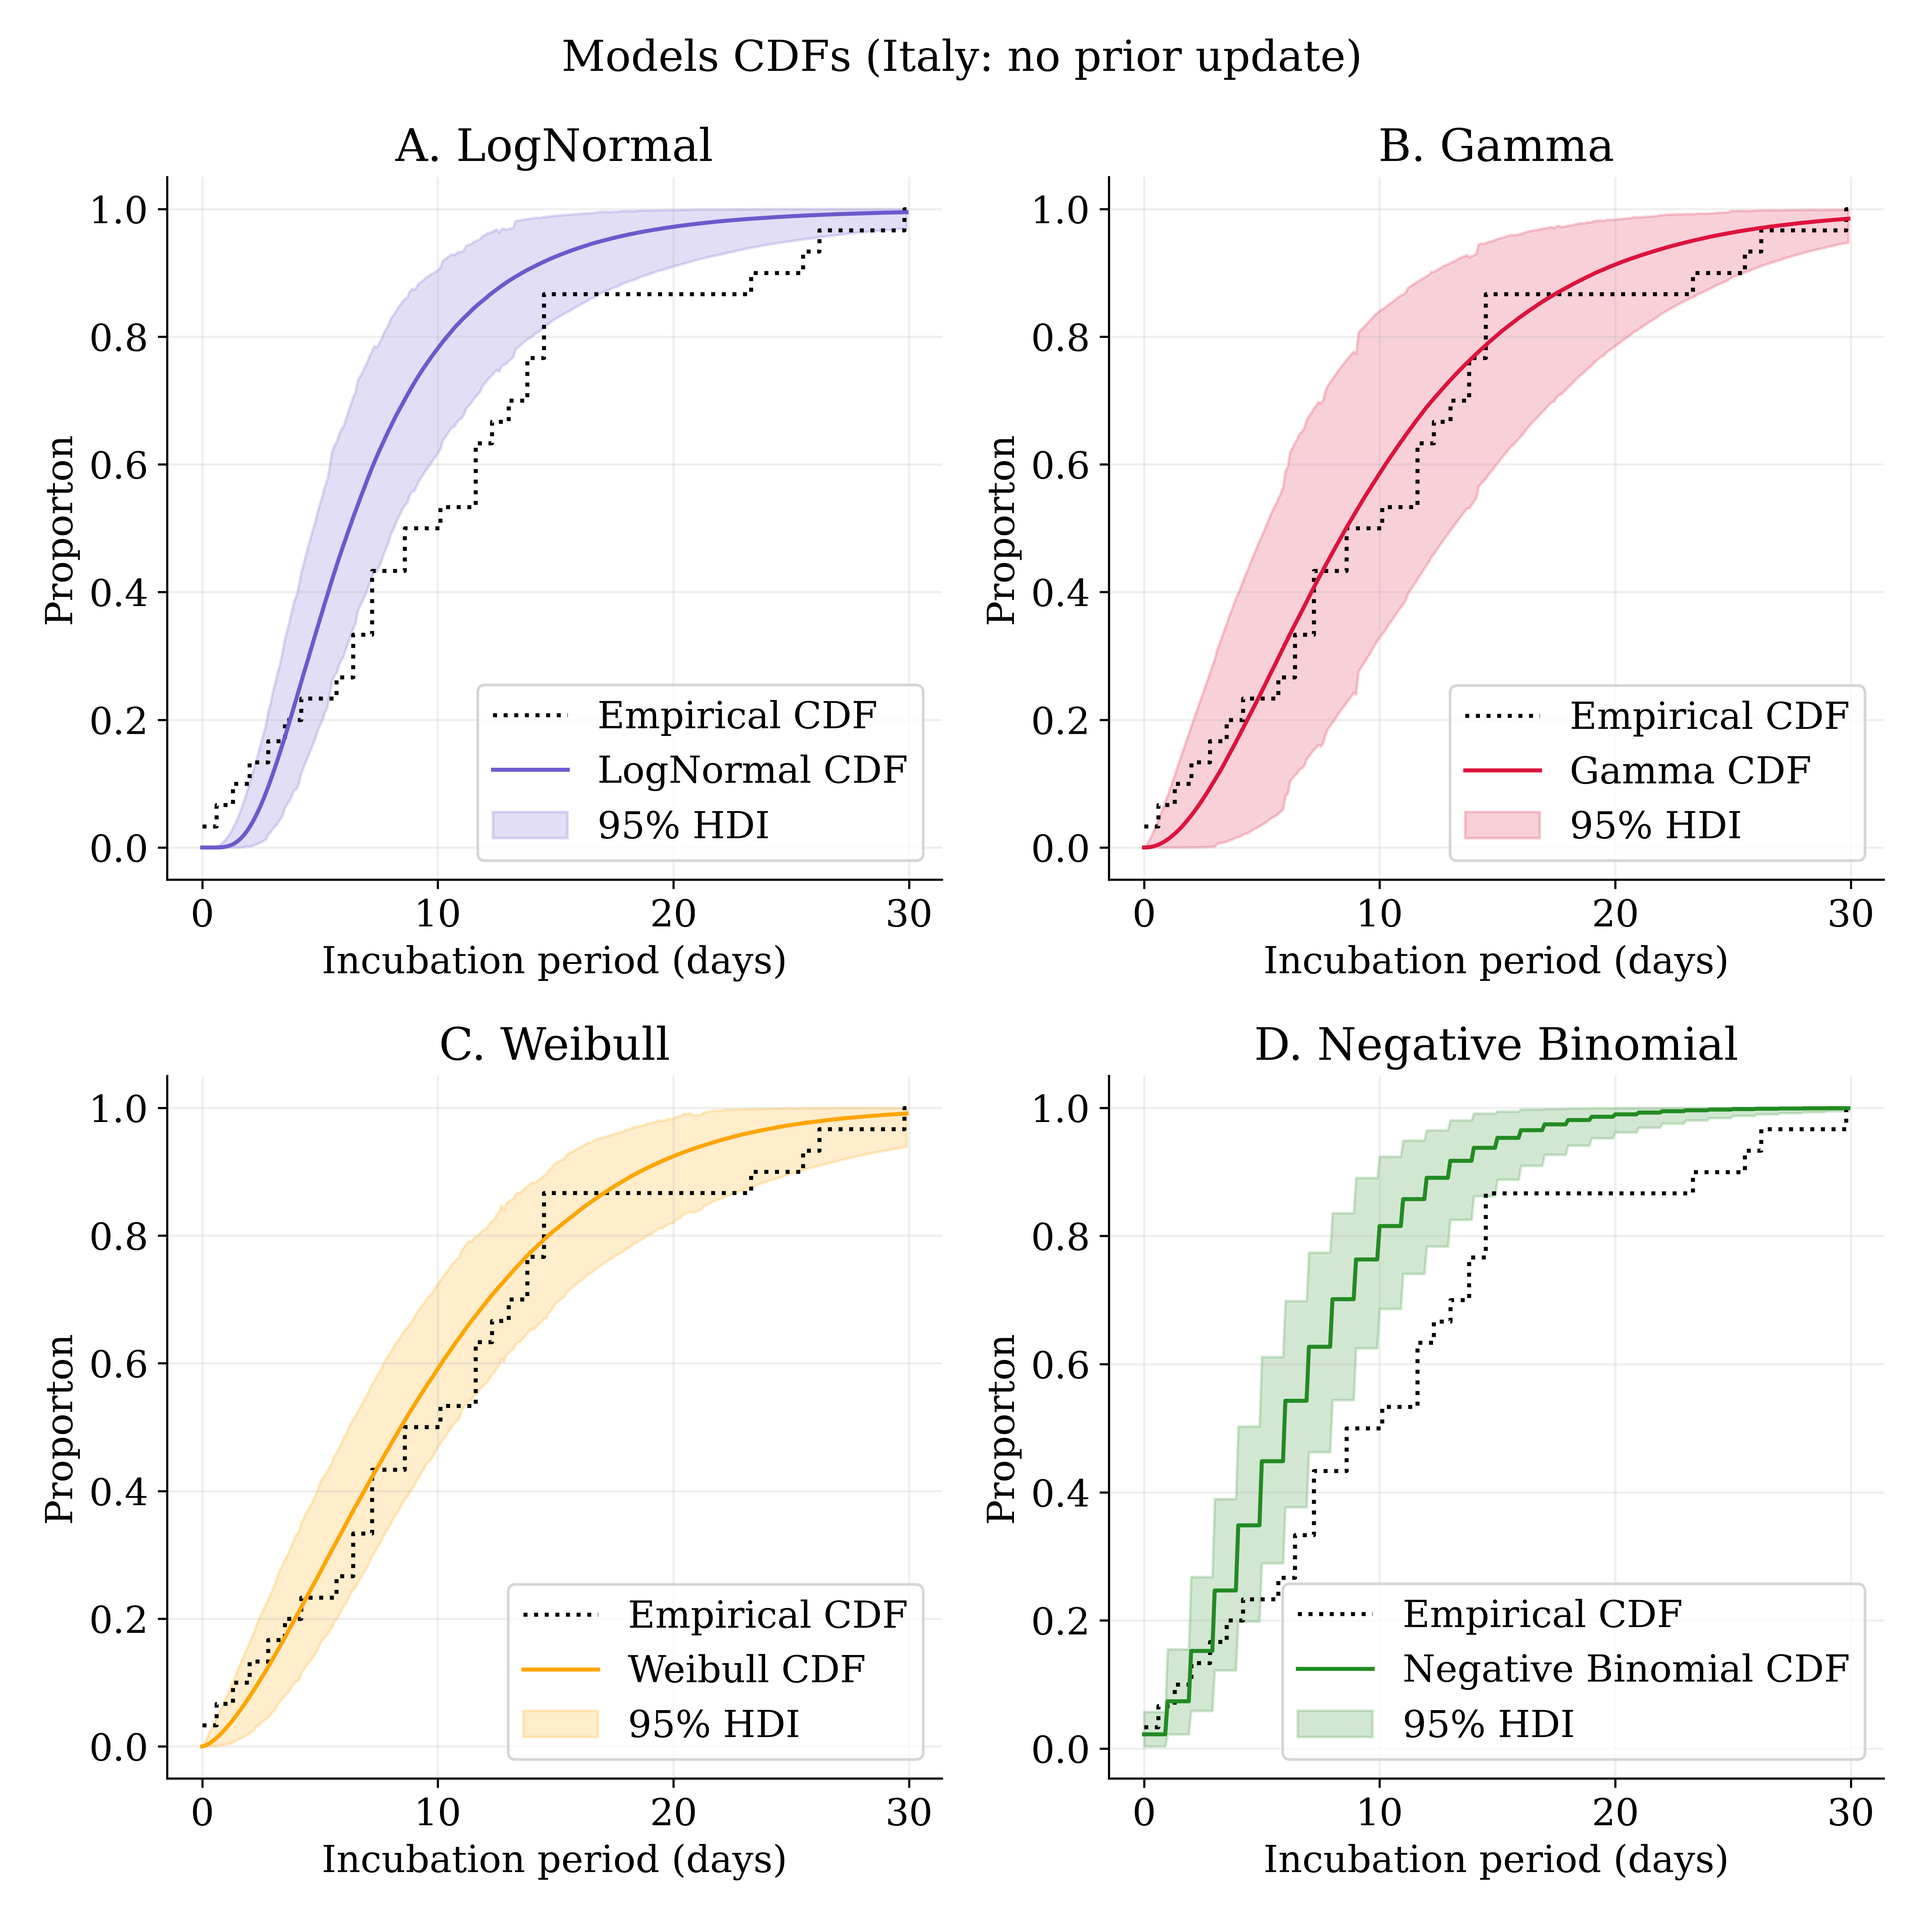
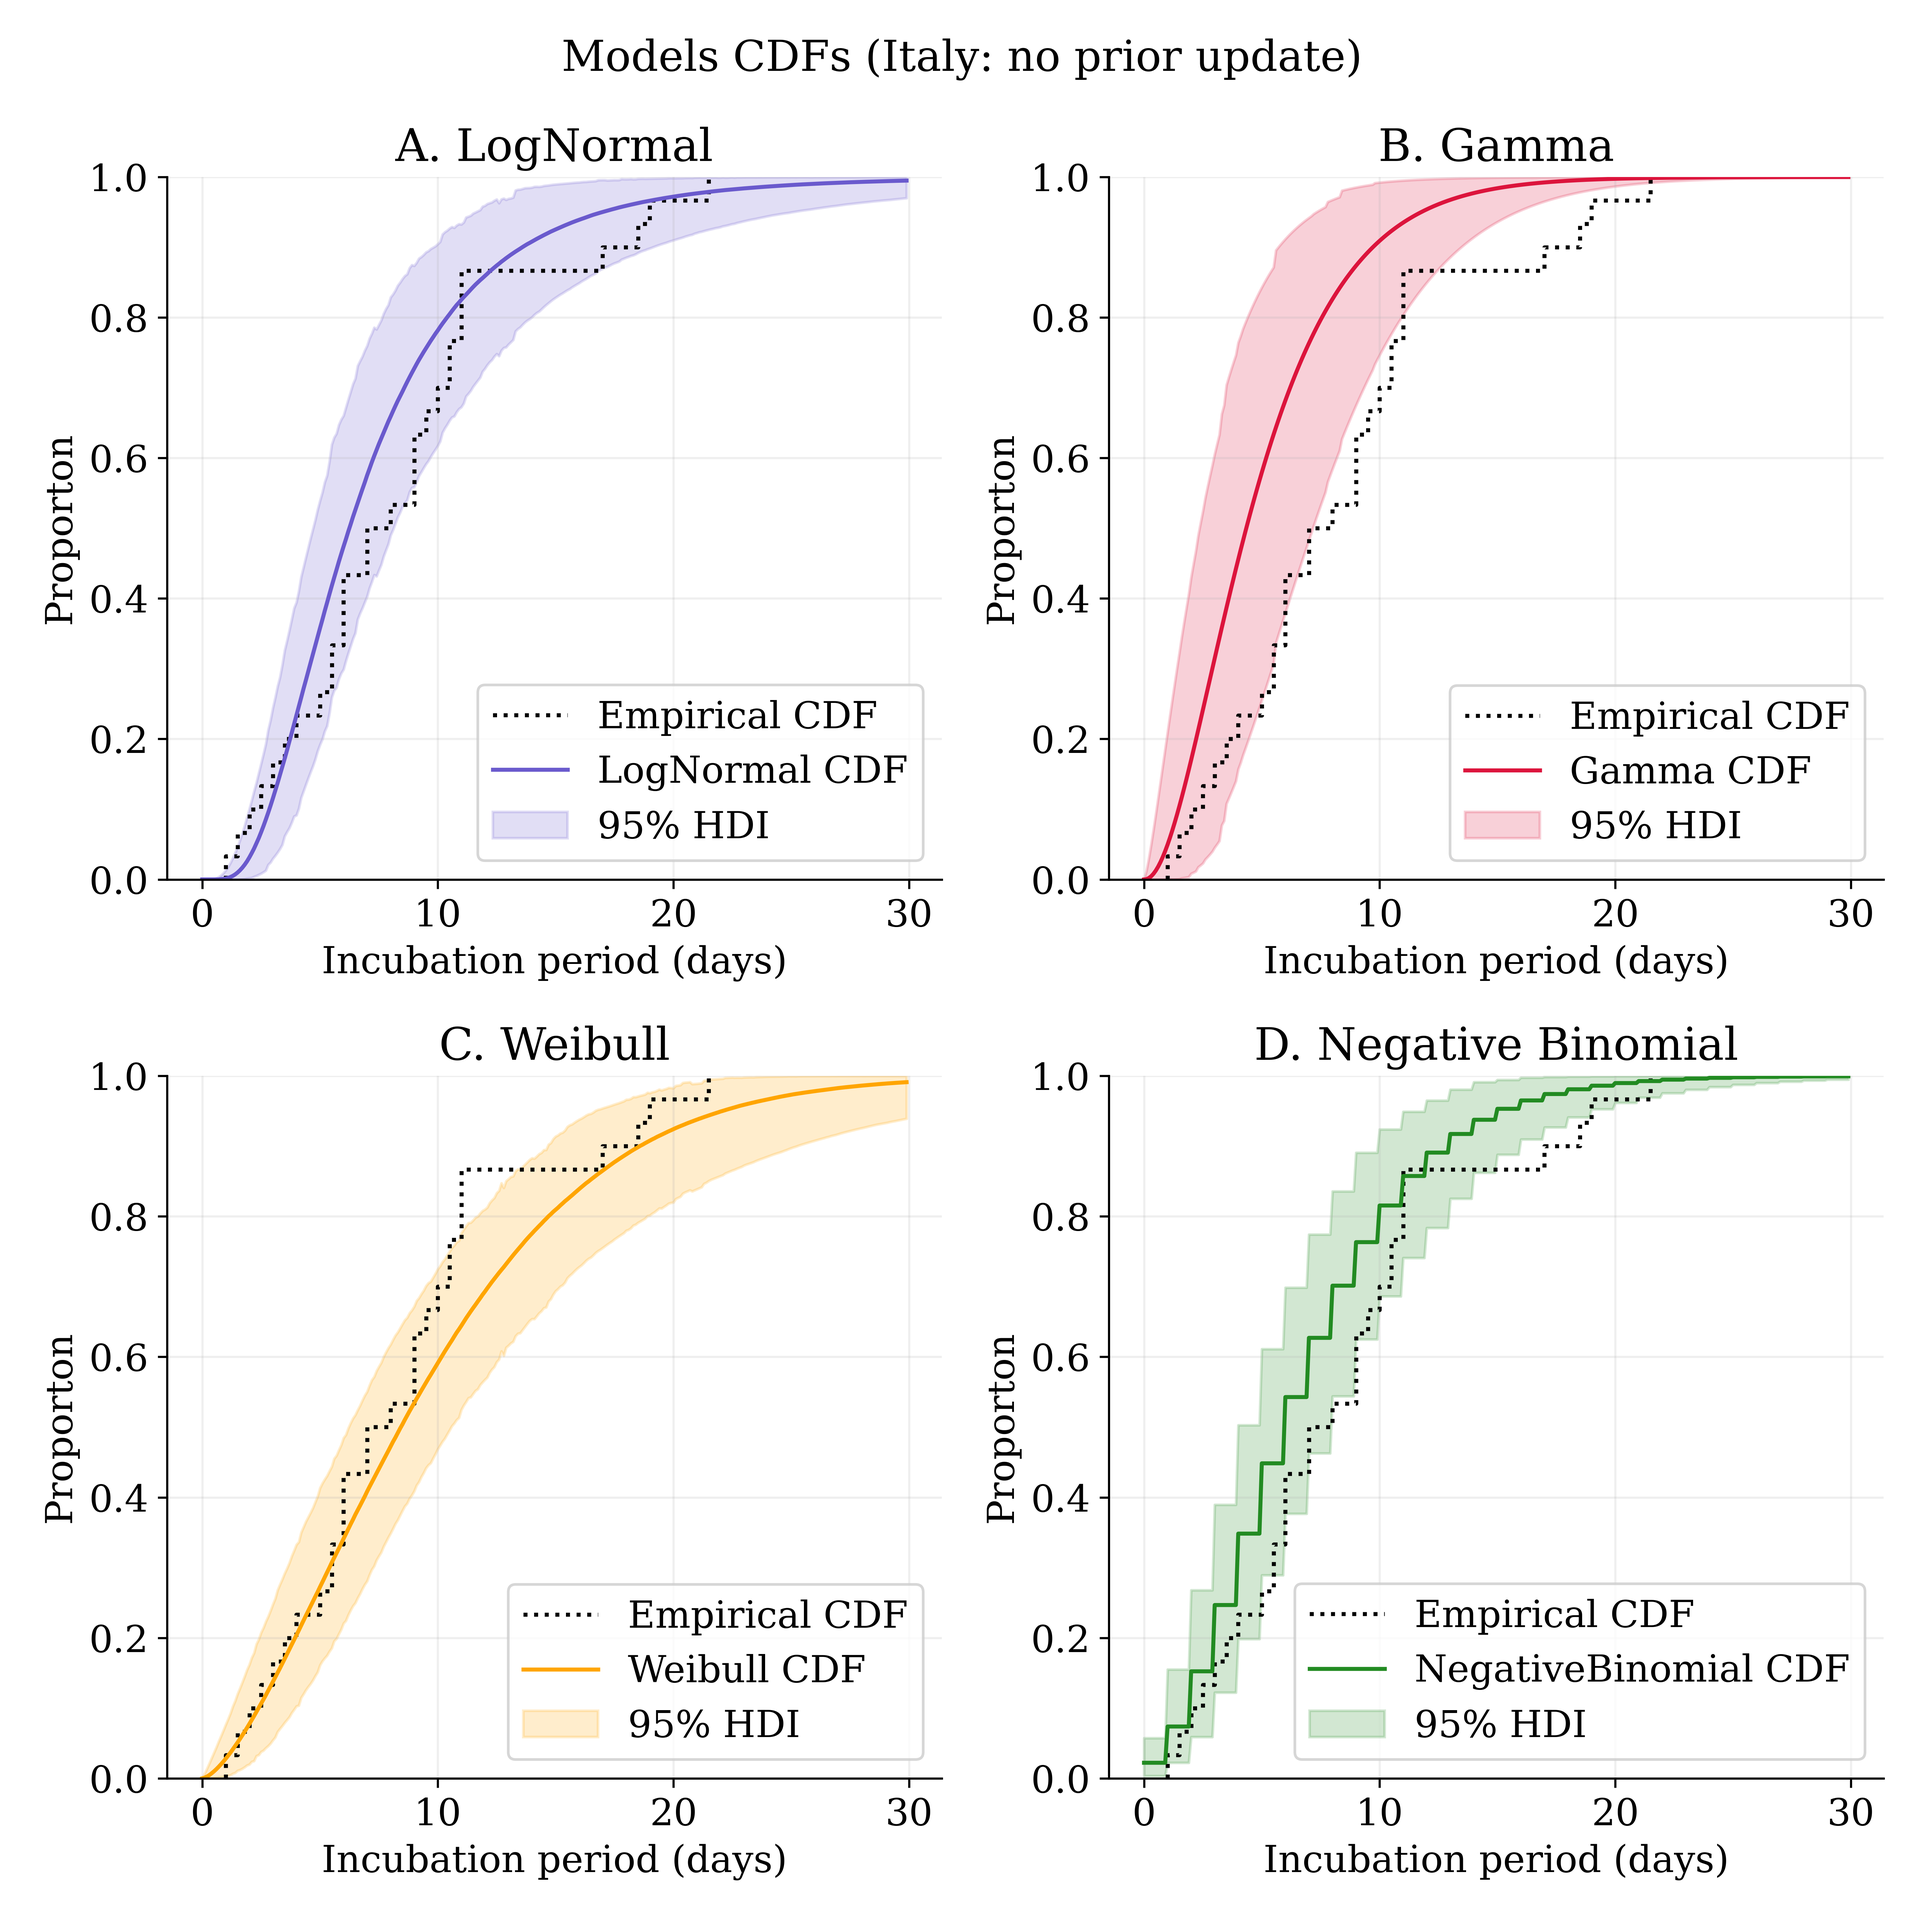
fix cdf for plots

diff --git a/model_comparison_IT.py b/model_comparison_IT.py
@@ -4,6 +4,7 @@ import arviz as az
 import numpy as np
 import scipy as sp
 import pandas as pd
+import seaborn as sns
 import pytensor.tensor as pt
 import matplotlib.pyplot as plt
 from scipy.special import gamma
@@ -151,18 +152,21 @@ plt.savefig("./plots/IT_table3.png", dpi=600, bbox_inches="tight")
 plt.show()
 
 
+
 ### plot
 erf = sp.special.erf
 ginc = sp.special.gammainc
 Gamma = sp.special.gamma
 Phi = sp.stats.norm.cdf
+binc = sp.special.betainc
 
 def ln_cdf(x, m, s):
    return 0.5*(1 + erf( ((np.log(x)-m))/(s*np.sqrt(2))) )    
-
+   
 def gam_cdf(x, m, s):
     a = (m**2)/(s**2)
-    return sp.stats.gamma.cdf(x,a,scale=s)
+    b = m/s**2
+    return sp.stats.gamma.cdf(x,a,scale=s.mean()/2)
     
 def wei_cdf(x, a, b):
     return 1 - np.exp(-(x/b)**a) 
@@ -171,7 +175,7 @@ def nb_cdf(x, m, a):
     p = a/(m+a)
     n = a
     return sp.stats.nbinom.cdf(x, n, p)
-
+    
 # def wal_cdf(x, m, l):
 #     p1 = Phi(np.sqrt(l/x)*((x/m) - 1))
 #     p2 = np.exp(2*l/m)*Phi(-np.sqrt(l/x)*((x/m) + 1))
@@ -197,12 +201,17 @@ n_cdf_5, n_cdf_95 = az.hdi(n_cdf.T, hdi_prob=0.95).T
 
 inc_day = ((tSymptomOnset-tEndExposure)+(tSymptomOnset-tStartExposure))/2
 
+l = np.round(((30-18)/2), 0)
+r = 30-18 - l
+
+#inc_day = list(np.repeat(min(inc_day), l)) + list(inc_day) + list(np.repeat(max(inc_day), r))
+
 num_bins = x.shape[0]
-counts, bin_edges = np.histogram(inc_day-inc_day.min(), bins=num_bins, density=True)
+counts, bin_edges = np.histogram(np.sort(inc_day), bins=num_bins, density=True)
 e_cdf = np.cumsum(counts/counts.sum())
 
 fig, ax = plt.subplots(2,2, figsize=(10,10))
-ax[0,0].step(x.mean(axis=1), e_cdf, color='k', linestyle=":", label="Empirical CDF")
+sns.ecdfplot(inc_day, ax=ax[0,0], color='k', linestyle=":", label="Empirical CDF")
 ax[0,0].plot(x.mean(axis=1), l_cdf_m, color="slateblue", label="LogNormal CDF")
 ax[0,0].fill_between(x.mean(axis=1), l_cdf_5, l_cdf_95, color="slateblue", alpha=0.2, label="95% HDI")
 ax[0,0].set_ylabel("Proporton")
@@ -211,7 +220,7 @@ ax[0,0].spines[['right', 'top']].set_visible(False)
 ax[0,0].legend(loc="lower right")
 ax[0,0].grid(alpha=0.2)
 ax[0,0].set_title("A. LogNormal")
-ax[0,1].step(x.mean(axis=1), e_cdf, color='k', linestyle=":", label="Empirical CDF")
+sns.ecdfplot(inc_day, ax=ax[0,1], color='k', linestyle=":", label="Empirical CDF")
 ax[0,1].plot(x.mean(axis=1), g_cdf_m, color="crimson", label="Gamma CDF")
 ax[0,1].fill_between(x.mean(axis=1), g_cdf_5, g_cdf_95, color="crimson", alpha=0.2, label="95% HDI")
 ax[0,1].set_ylabel("Proporton")
@@ -220,7 +229,7 @@ ax[0,1].spines[['right', 'top']].set_visible(False)
 ax[0,1].legend(loc="lower right")
 ax[0,1].grid(alpha=0.2)
 ax[0,1].set_title("B. Gamma")
-ax[1,0].step(x.mean(axis=1), e_cdf, color='k', linestyle=":", label="Empirical CDF")
+sns.ecdfplot(inc_day, ax=ax[1,0], color='k', linestyle=":", label="Empirical CDF")
 ax[1,0].plot(x.mean(axis=1), w_cdf_m, color="orange", label="Weibull CDF")
 ax[1,0].fill_between(x.mean(axis=1), w_cdf_5, w_cdf_95, color="orange", alpha=0.2, label="95% HDI")
 ax[1,0].set_ylabel("Proporton")
@@ -229,8 +238,8 @@ ax[1,0].spines[['right', 'top']].set_visible(False)
 ax[1,0].legend(loc="lower right")
 ax[1,0].grid(alpha=0.2)
 ax[1,0].set_title("C. Weibull")
-ax[1,1].step(x.mean(axis=1), e_cdf, color='k', linestyle=":", label="Empirical CDF")
-ax[1,1].plot(x.mean(axis=1), n_cdf_m, color="forestgreen", label="Negative Binomial CDF")
+sns.ecdfplot(inc_day, ax=ax[1,1], color='k', linestyle=":", label="Empirical CDF")
+ax[1,1].plot(x.mean(axis=1), n_cdf_m, color="forestgreen", label="NegativeBinomial CDF")
 ax[1,1].fill_between(x.mean(axis=1), n_cdf_5, n_cdf_95, color="forestgreen", alpha=0.2, label="95% HDI")
 ax[1,1].set_ylabel("Proporton")
 ax[1,1].set_xlabel("Incubation period (days)")
@@ -243,6 +252,7 @@ plt.tight_layout()
 plt.savefig("./plots/IT_cdfs_plots.png", dpi=600)
 plt.show()
 plt.close()
+
 
 l_summ = az.summary(idata_l, hdi_prob=0.95)
 g_summ = az.summary(idata_g, hdi_prob=0.95)

diff --git a/model_comparison_base_IT.py b/model_comparison_base_IT.py
@@ -4,6 +4,7 @@ import arviz as az
 import numpy as np
 import scipy as sp
 import pandas as pd
+import seaborn as sns
 import pytensor.tensor as pt
 import matplotlib.pyplot as plt
 from scipy.special import gamma
@@ -152,13 +153,15 @@ erf = sp.special.erf
 ginc = sp.special.gammainc
 Gamma = sp.special.gamma
 Phi = sp.stats.norm.cdf
+binc = sp.special.betainc
 
 def ln_cdf(x, m, s):
    return 0.5*(1 + erf( ((np.log(x)-m))/(s*np.sqrt(2))) )    
-
+   
 def gam_cdf(x, m, s):
     a = (m**2)/(s**2)
-    return sp.stats.gamma.cdf(x,a,scale=s)
+    b = m/s**2
+    return sp.stats.gamma.cdf(x,a,scale=s.mean()/2)
     
 def wei_cdf(x, a, b):
     return 1 - np.exp(-(x/b)**a) 
@@ -167,7 +170,7 @@ def nb_cdf(x, m, a):
     p = a/(m+a)
     n = a
     return sp.stats.nbinom.cdf(x, n, p)
-
+    
 # def wal_cdf(x, m, l):
 #     p1 = Phi(np.sqrt(l/x)*((x/m) - 1))
 #     p2 = np.exp(2*l/m)*Phi(-np.sqrt(l/x)*((x/m) + 1))
@@ -193,12 +196,17 @@ n_cdf_5, n_cdf_95 = az.hdi(n_cdf.T, hdi_prob=0.95).T
 
 inc_day = ((tSymptomOnset-tEndExposure)+(tSymptomOnset-tStartExposure))/2
 
+l = np.round(((30-18)/2), 0)
+r = 30-18 - l
+
+#inc_day = list(np.repeat(min(inc_day), l)) + list(inc_day) + list(np.repeat(max(inc_day), r))
+
 num_bins = x.shape[0]
-counts, bin_edges = np.histogram(inc_day-inc_day.min(), bins=num_bins, density=True)
+counts, bin_edges = np.histogram(np.sort(inc_day), bins=num_bins, density=True)
 e_cdf = np.cumsum(counts/counts.sum())
 
 fig, ax = plt.subplots(2,2, figsize=(10,10))
-ax[0,0].step(x.mean(axis=1), e_cdf, color='k', linestyle=":", label="Empirical CDF")
+sns.ecdfplot(inc_day, ax=ax[0,0], color='k', linestyle=":", label="Empirical CDF")
 ax[0,0].plot(x.mean(axis=1), l_cdf_m, color="slateblue", label="LogNormal CDF")
 ax[0,0].fill_between(x.mean(axis=1), l_cdf_5, l_cdf_95, color="slateblue", alpha=0.2, label="95% HDI")
 ax[0,0].set_ylabel("Proporton")
@@ -207,7 +215,7 @@ ax[0,0].spines[['right', 'top']].set_visible(False)
 ax[0,0].legend(loc="lower right")
 ax[0,0].grid(alpha=0.2)
 ax[0,0].set_title("A. LogNormal")
-ax[0,1].step(x.mean(axis=1), e_cdf, color='k', linestyle=":", label="Empirical CDF")
+sns.ecdfplot(inc_day, ax=ax[0,1], color='k', linestyle=":", label="Empirical CDF")
 ax[0,1].plot(x.mean(axis=1), g_cdf_m, color="crimson", label="Gamma CDF")
 ax[0,1].fill_between(x.mean(axis=1), g_cdf_5, g_cdf_95, color="crimson", alpha=0.2, label="95% HDI")
 ax[0,1].set_ylabel("Proporton")
@@ -216,7 +224,7 @@ ax[0,1].spines[['right', 'top']].set_visible(False)
 ax[0,1].legend(loc="lower right")
 ax[0,1].grid(alpha=0.2)
 ax[0,1].set_title("B. Gamma")
-ax[1,0].step(x.mean(axis=1), e_cdf, color='k', linestyle=":", label="Empirical CDF")
+sns.ecdfplot(inc_day, ax=ax[1,0], color='k', linestyle=":", label="Empirical CDF")
 ax[1,0].plot(x.mean(axis=1), w_cdf_m, color="orange", label="Weibull CDF")
 ax[1,0].fill_between(x.mean(axis=1), w_cdf_5, w_cdf_95, color="orange", alpha=0.2, label="95% HDI")
 ax[1,0].set_ylabel("Proporton")
@@ -225,8 +233,8 @@ ax[1,0].spines[['right', 'top']].set_visible(False)
 ax[1,0].legend(loc="lower right")
 ax[1,0].grid(alpha=0.2)
 ax[1,0].set_title("C. Weibull")
-ax[1,1].step(x.mean(axis=1), e_cdf, color='k', linestyle=":", label="Empirical CDF")
-ax[1,1].plot(x.mean(axis=1), n_cdf_m, color="forestgreen", label="Negative Binomial CDF")
+sns.ecdfplot(inc_day, ax=ax[1,1], color='k', linestyle=":", label="Empirical CDF")
+ax[1,1].plot(x.mean(axis=1), n_cdf_m, color="forestgreen", label="NegativeBinomial CDF")
 ax[1,1].fill_between(x.mean(axis=1), n_cdf_5, n_cdf_95, color="forestgreen", alpha=0.2, label="95% HDI")
 ax[1,1].set_ylabel("Proporton")
 ax[1,1].set_xlabel("Incubation period (days)")
@@ -239,6 +247,7 @@ plt.tight_layout()
 plt.savefig("./plots/IT_base_cdfs_plots.png", dpi=600)
 plt.show()
 plt.close()
+
 
 l_summ = az.summary(idata_l, hdi_prob=0.95)
 g_summ = az.summary(idata_g, hdi_prob=0.95)

diff --git a/model_comparison_NE.py b/model_comparison_NE.py
@@ -4,6 +4,7 @@ import arviz as az
 import numpy as np
 import scipy as sp
 import pandas as pd
+import seaborn as sns
 import pytensor.tensor as pt
 import matplotlib.pyplot as plt
 from scipy.special import gamma
@@ -153,7 +154,8 @@ def ln_cdf(x, m, s):
    
 def gam_cdf(x, m, s):
     a = (m**2)/(s**2)
-    return sp.stats.gamma.cdf(x,a,scale=s)
+    b = m/s**2
+    return sp.stats.gamma.cdf(x,a,scale=s.mean()/2)
     
 def wei_cdf(x, a, b):
     return 1 - np.exp(-(x/b)**a) 
@@ -188,12 +190,17 @@ n_cdf_5, n_cdf_95 = az.hdi(n_cdf.T, hdi_prob=0.95).T
 
 inc_day = ((tSymptomOnset-tEndExposure)+(tSymptomOnset-tStartExposure))/2
 
+l = np.round(((30-18)/2), 0)
+r = 30-18 - l
+
+#inc_day = list(np.repeat(min(inc_day), l)) + list(inc_day) + list(np.repeat(max(inc_day), r))
+
 num_bins = x.shape[0]
-counts, bin_edges = np.histogram(np.sort(inc_day-inc_day.min()), bins=num_bins, density=True)
+counts, bin_edges = np.histogram(np.sort(inc_day), bins=num_bins, density=True)
 e_cdf = np.cumsum(counts/counts.sum())
 
 fig, ax = plt.subplots(2,2, figsize=(10,10))
-ax[0,0].step(x.mean(axis=1), e_cdf, color='k', linestyle=":", label="Empirical CDF")
+sns.ecdfplot(inc_day, ax=ax[0,0], color='k', linestyle=":", label="Empirical CDF")
 ax[0,0].plot(x.mean(axis=1), l_cdf_m, color="slateblue", label="LogNormal CDF")
 ax[0,0].fill_between(x.mean(axis=1), l_cdf_5, l_cdf_95, color="slateblue", alpha=0.2, label="95% HDI")
 ax[0,0].set_ylabel("Proporton")
@@ -202,7 +209,7 @@ ax[0,0].spines[['right', 'top']].set_visible(False)
 ax[0,0].legend(loc="lower right")
 ax[0,0].grid(alpha=0.2)
 ax[0,0].set_title("A. LogNormal")
-ax[0,1].step(x.mean(axis=1), e_cdf, color='k', linestyle=":", label="Empirical CDF")
+sns.ecdfplot(inc_day, ax=ax[0,1], color='k', linestyle=":", label="Empirical CDF")
 ax[0,1].plot(x.mean(axis=1), g_cdf_m, color="crimson", label="Gamma CDF")
 ax[0,1].fill_between(x.mean(axis=1), g_cdf_5, g_cdf_95, color="crimson", alpha=0.2, label="95% HDI")
 ax[0,1].set_ylabel("Proporton")
@@ -211,7 +218,7 @@ ax[0,1].spines[['right', 'top']].set_visible(False)
 ax[0,1].legend(loc="lower right")
 ax[0,1].grid(alpha=0.2)
 ax[0,1].set_title("B. Gamma")
-ax[1,0].step(x.mean(axis=1), e_cdf, color='k', linestyle=":", label="Empirical CDF")
+sns.ecdfplot(inc_day, ax=ax[1,0], color='k', linestyle=":", label="Empirical CDF")
 ax[1,0].plot(x.mean(axis=1), w_cdf_m, color="orange", label="Weibull CDF")
 ax[1,0].fill_between(x.mean(axis=1), w_cdf_5, w_cdf_95, color="orange", alpha=0.2, label="95% HDI")
 ax[1,0].set_ylabel("Proporton")
@@ -220,7 +227,7 @@ ax[1,0].spines[['right', 'top']].set_visible(False)
 ax[1,0].legend(loc="lower right")
 ax[1,0].grid(alpha=0.2)
 ax[1,0].set_title("C. Weibull")
-ax[1,1].step(x.mean(axis=1), e_cdf, color='k', linestyle=":", label="Empirical CDF")
+sns.ecdfplot(inc_day, ax=ax[1,1], color='k', linestyle=":", label="Empirical CDF")
 ax[1,1].plot(x.mean(axis=1), n_cdf_m, color="forestgreen", label="NegativeBinomial CDF")
 ax[1,1].fill_between(x.mean(axis=1), n_cdf_5, n_cdf_95, color="forestgreen", alpha=0.2, label="95% HDI")
 ax[1,1].set_ylabel("Proporton")
